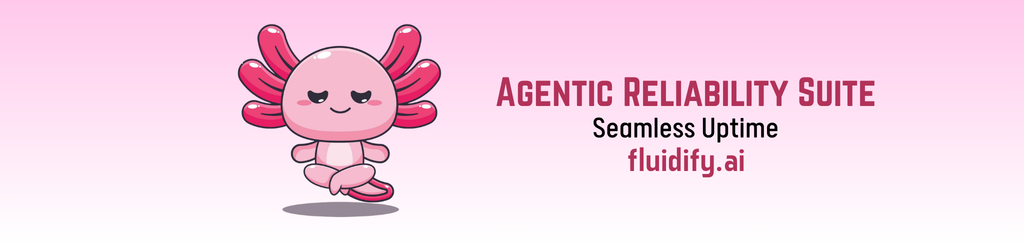
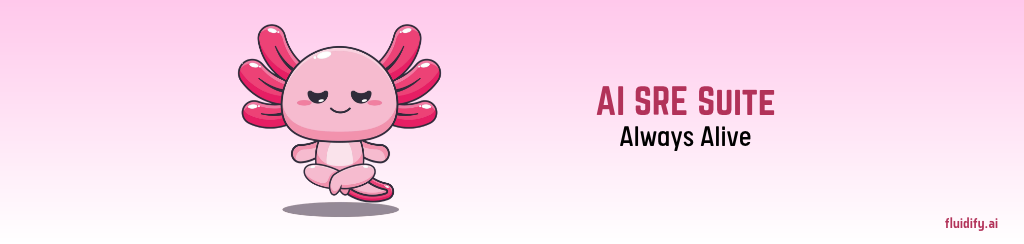
Changing homepage of the org

Changed region(s): [[0.4688, 0.3156, 0.875, 0.7459], [0.9062, 0.8893, 1.0, 0.9467], [0.3125, 0.5738, 0.3438, 0.6025]]

diff --git a/README.md b/README.md
@@ -3,10 +3,11 @@
 ### AI SRE Suite
  
 For teams operating with production systems. It provides solutions for replacing disjointed tools with one platform which solves investigate, triage, and remediation at one place. It is flexible in adoption with plug and play options and avoid any vendor lock in.
+Best in value against all other tools.
  
 ![Fluidify AI](./assets/banner.png)
  
-### The Suite is structured into 4 tools to make the entire system lifecycle seamless
+### 4 tools make the entire system lifecycle seamless
  
 | Tool | What it does |
 |------|--------------|
@@ -28,4 +29,4 @@ For teams operating with production systems. It provides solutions for replacing
 - **[Documentation](https://fluidify.ai/docs)**
 ---
  
-Softwares maintaining Softwares
+Always Alive

diff --git a/profile/README.md b/profile/README.md
@@ -3,10 +3,11 @@
 ### AI SRE Suite
  
 For teams operating with production systems. It provides solutions for replacing disjointed tools with one platform which solves investigate, triage, and remediation at one place. It is flexible in adoption with plug and play options and avoid any vendor lock in.
+Best in value against all other tools.
  
 ![Fluidify AI](./assets/banner.png)
  
-### The Suite is structured into 4 tools to make the entire system lifecycle seamless
+### 4 tools make the entire system lifecycle seamless
  
 | Tool | What it does |
 |------|--------------|
@@ -28,4 +29,4 @@ For teams operating with production systems. It provides solutions for replacing
 - **[Documentation](https://fluidify.ai/docs)**
 ---
  
-Softwares maintaining Softwares
+Always Alive
